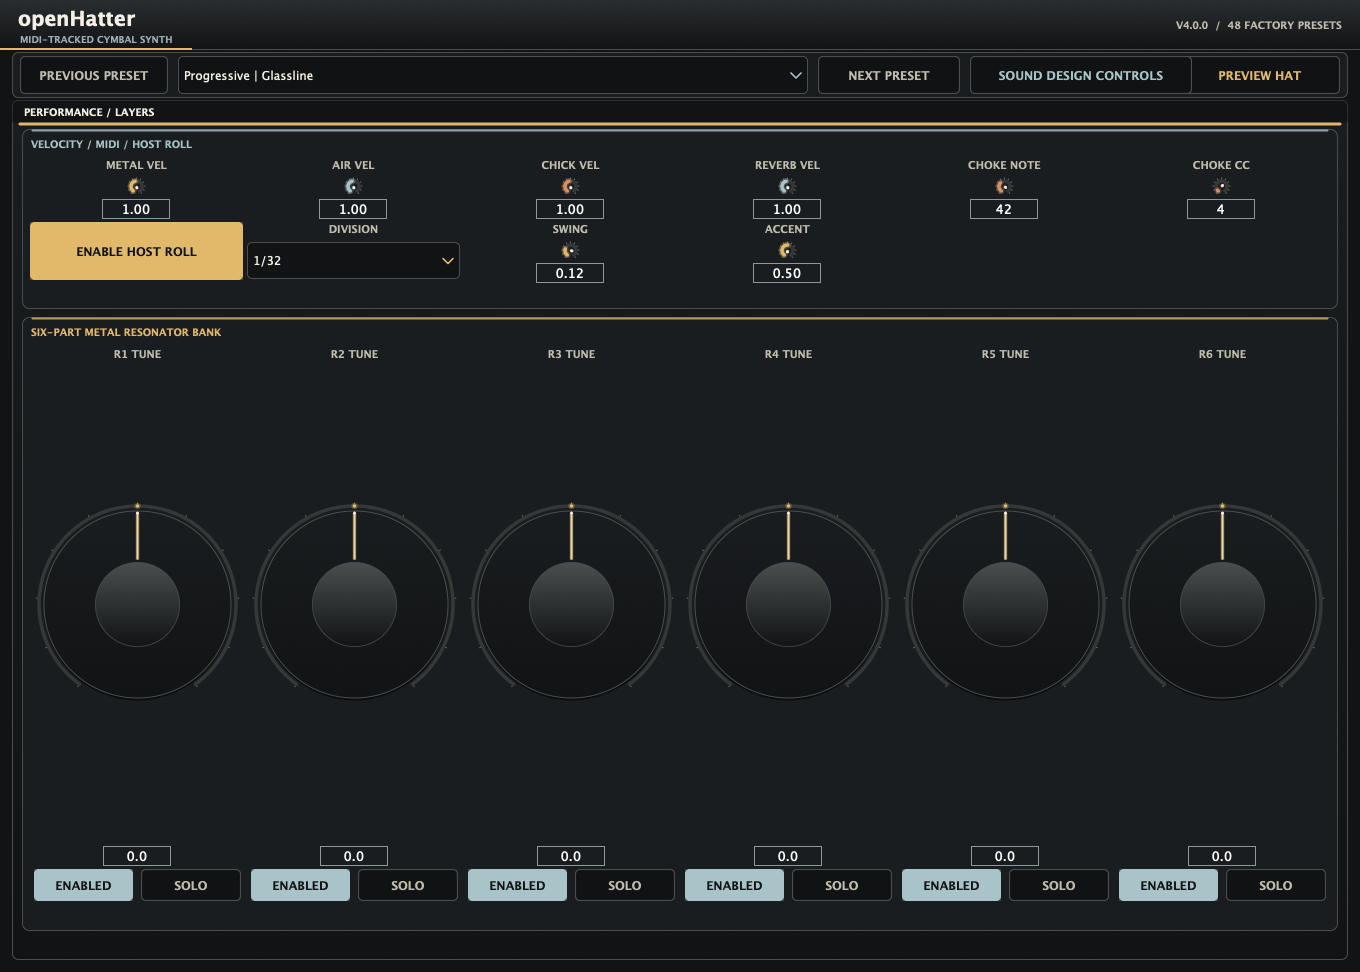
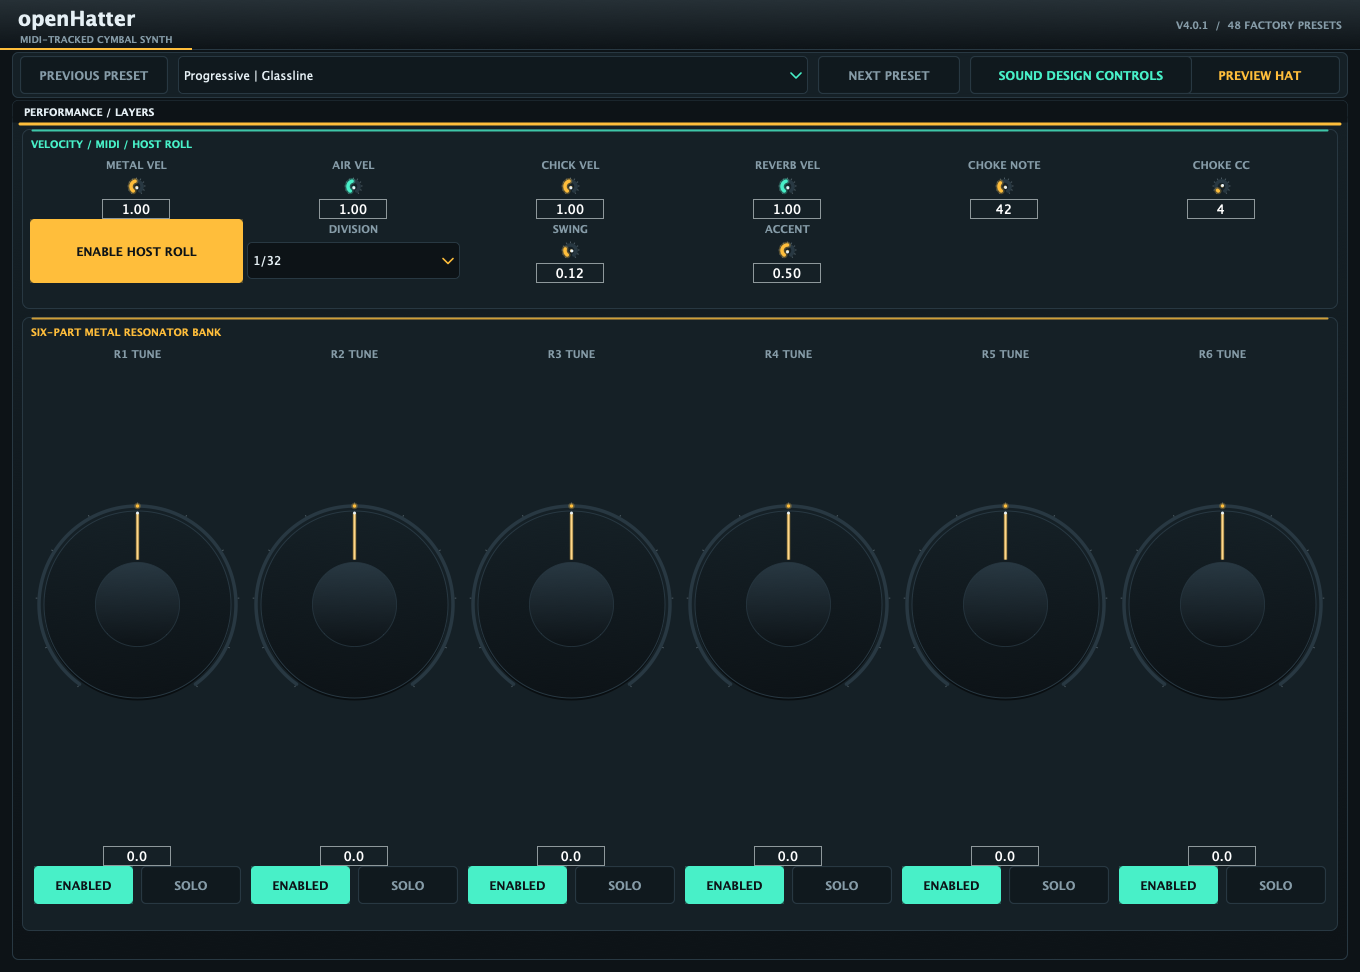
Align editor controls with suite styling

diff --git a/Source/Plugin/Panels.cpp b/Source/Plugin/Panels.cpp
@@ -20,7 +20,7 @@ void drawSection(juce::Graphics& g, juce::Rectangle<int> bounds,
     g.setFont(juce::FontOptions(12.0f, juce::Font::bold));
     const auto titleArea = bounds.reduced(9, 0)
                                .withY(bounds.getY() + 6)
-                               .withWidth(std::max(0, bounds.getWidth() - 126))
+                               .withWidth(std::max(0, bounds.getWidth() - 160))
                                .withHeight(18);
     g.drawText(title, titleArea, juce::Justification::centredLeft, true);
 }
@@ -197,11 +197,11 @@ void HatSynthPanel::resized() {
         sectionBounds_[i] = { area.getX() + static_cast<int>(i) * (width + gap), area.getY(), width, area.getHeight() };
     }
 
-    cymbalLock_.setBounds(sectionBounds_[0].getRight() - 120, sectionBounds_[0].getY() + 5, 110, 26);
-    airLock_.setBounds(sectionBounds_[1].getRight() - 120, sectionBounds_[1].getY() + 5, 110, 26);
-    articulationLock_.setBounds(sectionBounds_[2].getRight() - 120, sectionBounds_[2].getY() + 5, 110, 26);
+    cymbalLock_.setBounds(sectionBounds_[0].getRight() - 152, sectionBounds_[0].getY() + 3, 144, 36);
+    airLock_.setBounds(sectionBounds_[1].getRight() - 152, sectionBounds_[1].getY() + 3, 144, 36);
+    articulationLock_.setBounds(sectionBounds_[2].getRight() - 152, sectionBounds_[2].getY() + 3, 144, 36);
 
-    auto metal = sectionBounds_[0].reduced(6, 27);
+    auto metal = sectionBounds_[0].reduced(6, 10).withTrimmedTop(36);
     layoutRows(metal, {
         { &toneMode_, &toneFreq_, nullptr },
         { &toneQ_, &toneDecay_, &toneLevel_ },
@@ -209,21 +209,21 @@ void HatSynthPanel::resized() {
         { &metalSpread_, &metalDampingSlope_, &metalStereoSpread_ }
     });
 
-    auto air = sectionBounds_[1].reduced(6, 27);
+    auto air = sectionBounds_[1].reduced(6, 10).withTrimmedTop(36);
     layoutRows(air, {
         { &noiseType_, &noiseAttack_, &noiseHold_ },
         { &noiseDecay_, &noiseCurve_, &noiseHPF_ },
         { &noiseLPF_, &noiseWidth_, &noiseLevel_ }
     });
 
-    auto articulation = sectionBounds_[2].reduced(6, 27);
+    auto articulation = sectionBounds_[2].reduced(6, 10).withTrimmedTop(36);
     layoutRows(articulation, {
         { &preBursts_, &preSpread_ },
         { &preDecay_, &preJitter_ },
         { &flamSpread_, &preLevel_ }
     });
 
-    auto envelope = sectionBounds_[3].reduced(5, 27);
+    auto envelope = sectionBounds_[3].reduced(5, 10).withTrimmedTop(36);
     layoutRows(envelope, {
         { &fullAdsr_ },
         { &ampAttack_, &ampDecay_ },
@@ -362,20 +362,20 @@ void EffectsPanel::resized() {
     for (size_t i = 0; i < sectionBounds_.size(); ++i)
         sectionBounds_[i] = { area.getX() + static_cast<int>(i) * (width + gap), area.getY(), width, area.getHeight() };
 
-    exciterLock_.setBounds(sectionBounds_[0].getRight() - 120, sectionBounds_[0].getY() + 5, 110, 26);
-    dynamicsLock_.setBounds(sectionBounds_[1].getRight() - 120, sectionBounds_[1].getY() + 5, 110, 26);
-    spaceLock_.setBounds(sectionBounds_[2].getRight() - 120, sectionBounds_[2].getY() + 5, 110, 26);
+    exciterLock_.setBounds(sectionBounds_[0].getRight() - 152, sectionBounds_[0].getY() + 3, 144, 36);
+    dynamicsLock_.setBounds(sectionBounds_[1].getRight() - 152, sectionBounds_[1].getY() + 3, 144, 36);
+    spaceLock_.setBounds(sectionBounds_[2].getRight() - 152, sectionBounds_[2].getY() + 3, 144, 36);
 
-    layoutRows(sectionBounds_[0].reduced(8, 29), {
+    layoutRows(sectionBounds_[0].reduced(8, 10).withTrimmedTop(36), {
         { &distType_, &distDrive_ },
         { &distTone_, &distMix_ }
     });
-    layoutRows(sectionBounds_[1].reduced(7, 29), {
+    layoutRows(sectionBounds_[1].reduced(7, 10).withTrimmedTop(36), {
         { &compThresh_, &compRatio_, &compAttack_ },
         { &compRelease_, &compMakeup_, &compMix_ },
         { &limiterCeiling_, &limiterRelease_, &limiterEnabled_ }
     });
-    layoutRows(sectionBounds_[2].reduced(7, 29), {
+    layoutRows(sectionBounds_[2].reduced(7, 10).withTrimmedTop(36), {
         { &reverbSize_, &reverbDecay_, &reverbDamp_ },
         { &reverbGate_, &reverbMix_, &reverseMode_ },
         { &reverseMix_, &masterWidth_, &outputGain_ }

diff --git a/Source/Plugin/Theme.h b/Source/Plugin/Theme.h
@@ -4,19 +4,19 @@
 
 namespace openhatter::theme {
 
-inline const juce::Colour kBackground{ 0xff111315 };
-inline const juce::Colour kPanel{ 0xff1a1d1f };
-inline const juce::Colour kPanelEdge{ 0xff4a4e4d };
-inline const juce::Colour kKnobBody{ 0xff101213 };
-inline const juce::Colour kTrack{ 0xff343938 };
-inline const juce::Colour kText{ 0xfff4f0e5 };
-inline const juce::Colour kTextDim{ 0xffc0bcae };
+inline const juce::Colour kBackground{ 0xff0d1317 };
+inline const juce::Colour kPanel{ 0xff152026 };
+inline const juce::Colour kPanelEdge{ 0xff283842 };
+inline const juce::Colour kKnobBody{ 0xff10191e };
+inline const juce::Colour kTrack{ 0xff283842 };
+inline const juce::Colour kText{ 0xffe6f0f5 };
+inline const juce::Colour kTextDim{ 0xff869ca8 };
 
-inline const juce::Colour kAccentBrass{ 0xffe2b86b };
-inline const juce::Colour kAccentSteel{ 0xff9daeb3 };
-inline const juce::Colour kAccentAqua{ 0xffa8c4c8 };
-inline const juce::Colour kAccentCoral{ 0xffd99161 };
-inline const juce::Colour kAccentDim{ 0xff8d9290 };
+inline const juce::Colour kAccentBrass{ 0xffffbe3b };
+inline const juce::Colour kAccentSteel{ 0xff869ca8 };
+inline const juce::Colour kAccentAqua{ 0xff48f0c8 };
+inline const juce::Colour kAccentCoral{ 0xffffbe3b };
+inline const juce::Colour kAccentDim{ 0xff869ca8 };
 
 // Keep the look-and-feel accents mapped to the current palette.
 inline const juce::Colour kAccentCyan = kAccentAqua;

diff --git a/Tests/PluginTests.cpp b/Tests/PluginTests.cpp
@@ -14,6 +14,18 @@
 namespace {
 std::atomic<uint64_t> pluginCallbackAllocations { 0 };
 thread_local bool countPluginCallbackAllocations = false;
+
+void checkVisibleButtonTargets(juce::Component& component) {
+    for (auto* child : component.getChildren()) {
+        if (!child->isVisible()) continue;
+        if (auto* button = dynamic_cast<juce::TextButton*>(child)) {
+            INFO(button->getButtonText());
+            CHECK(button->getHeight() >= 36);
+            CHECK(button->getLookAndFeel().getTextButtonFont(*button, button->getHeight()).getHeight() >= 14.0f);
+        }
+        checkVisibleButtonTargets(*child);
+    }
+}
 }
 
 void* operator new(std::size_t size) {
@@ -621,6 +633,7 @@ TEST_CASE("OpenHatterEditor renders every page in both control modes", "[plugin]
         for (int page = 0; page < 2; ++page) {
             hatterEditor->setPage(page);
             REQUIRE(hatterEditor->getPage() == page);
+            checkVisibleButtonTargets(*hatterEditor);
             const auto snapshot = editor->createComponentSnapshot(editor->getLocalBounds());
             REQUIRE(snapshot.isValid());
             REQUIRE(snapshot.getWidth() == 1360);

diff --git a/Source/Plugin/Controls.cpp b/Source/Plugin/Controls.cpp
@@ -80,7 +80,7 @@ Toggle::Toggle(Apvts& state, const juce::String& parameterId, const juce::String
 }
 
 void Toggle::resized() {
-    button_.setBounds(getLocalBounds().reduced(2, 3));
+    button_.setBounds(getLocalBounds().reduced(2, 0));
 }
 
 void Toggle::setTooltip(const juce::String& text) {

diff --git a/README.md b/README.md
@@ -1,11 +1,11 @@
-# openHatter v4.0
+# openHatter v4.0.1
 
 [Install with OpenVST Manager](https://github.com/alanmarcero/alan-m-OpenVSTManager/releases/latest)
 
-openHatter is a MIDI-tracked open hi-hat synthesizer. Play any MIDI note and the synth follows its pitch and octave directly. The editor shows the received note, MIDI number, velocity, and calculated frequency. The v4 synth rebuild brings the air and transient layers forward while keeping tuned metal restrained. Its wider black-metal and brass interface uses larger controls and plain action labels.
+openHatter is a MIDI-tracked open hi-hat synthesizer. Play any MIDI note and the synth follows its pitch and octave directly. The editor shows the received note, MIDI number, velocity, and calculated frequency. The v4 synth rebuild brings the air and transient layers forward while keeping tuned metal restrained. Its graphite surfaces use the suite's mint and amber accents, with larger section locks and performance switches.
 
-![openHatter v4 Sound Design page](assets/openHatter-v4.png)
-![openHatter v4 Performance page](assets/openHatter-v4-performance.png)
+![openHatter v4.0.1 Sound Design page with larger section locks](assets/openHatter-v4.png)
+![openHatter v4.0.1 Performance page with larger switches](assets/openHatter-v4-performance.png)
 
 The optional MIDI-tracked ADSR has release up to 20 seconds. The engine matches note-offs by MIDI note and channel, keeps note timing sample-accurate, and leaves the default one-shot behavior unchanged. Factory presets keep tuned metal restrained while maintaining a strong broadband air layer and clear attack. The 48 presets span Progressive, Uplifting, Classic, Tech, Psy, and Club styles. The sound combines an inharmonic modal cymbal bank, shaped noise, stick bounces, transient controls, exciter, dynamics, gated space, and reverse swells.
 

diff --git a/docs/SCREENSHOTS.md b/docs/SCREENSHOTS.md
@@ -1,4 +1,4 @@
-# openHatter v4.0 screenshots
+# openHatter v4.0.1 screenshots
 
 [The Sound Design page](../assets/openHatter-v4.png) is captured from the native JUCE editor snapshot at its default 1360 × 972 size. The MIDI monitor is idle because no MIDI keyboard was connected during capture. The screenshot shows the optional Hold MIDI Notes (ADSR) control in its default off state.
 
@@ -6,4 +6,4 @@
 
 Regenerate the Sound Design page with `OPENHATTER_SOUND_CAPTURE=assets/openHatter-v4.png build/openhatter_plugin_tests "[plugin][gui]"`.
 
-The Sound Design page includes the metal partial spread, damping slope, and stereo spread controls alongside the larger preset and section lock buttons.
+The Sound Design page includes the metal partial spread, damping slope, and stereo spread controls alongside the 36-pixel section lock buttons. Performance switches meet the same minimum height.
